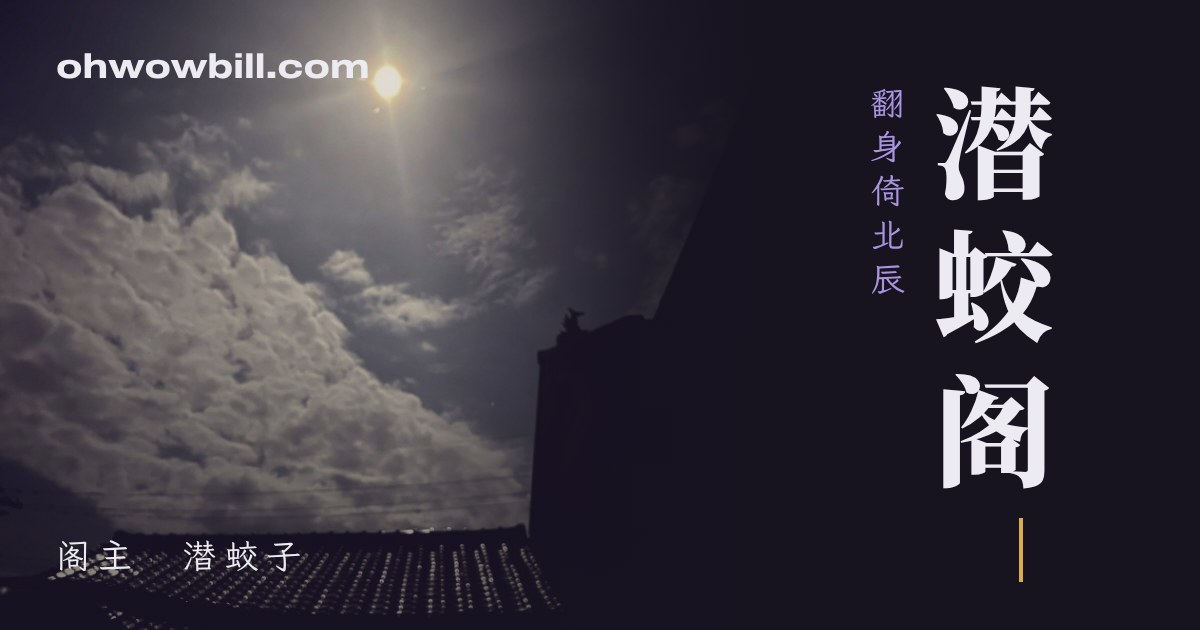
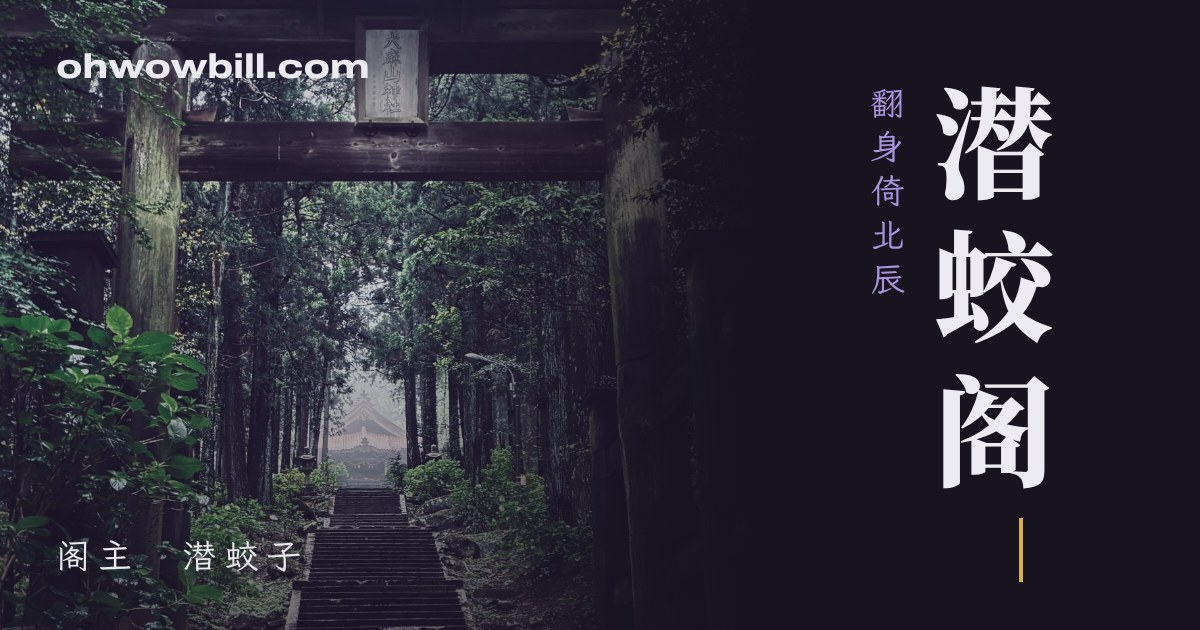
首页底图换回大麻山神社鸟居原图
按阁内调法处理（降饱和、压暗、暗部偏紫、亮部偏金），构建时转 WebP；
分享卡片同步更换。

Claude-Session: https://claude.ai/code/session_01TX6MzmbUzvExFYtFKriNof

diff --git a/layouts/index.html b/layouts/index.html
@@ -6,11 +6,11 @@
      走主题的 baseof（导航、搜索、页脚与内页一致），不再有加载帘幕。
      =========================================================== */ -}}
 {{- $posts := where site.RegularPages "Section" "posts" -}}
-{{- $hero := resources.Get "img/ge-hero.jpg" -}}
+{{- $hero := (resources.Get "img/ge-hero.jpg").Process "webp q70" -}}
 
 <section class="qj-hero" aria-label="潜蛟阁">
   {{- with $hero }}
-  <img class="qj-hero-img nozoom" src="{{ .RelPermalink }}" width="{{ .Width }}" height="{{ .Height }}" alt="月下屋檐，云层压着瓦" fetchpriority="high"/>
+  <img class="qj-hero-img nozoom" src="{{ .RelPermalink }}" width="{{ .Width }}" height="{{ .Height }}" alt="大麻山神社，鸟居下石阶通往雾中社殿" fetchpriority="high"/>
   {{- end }}
   <span class="qj-hero-v2">翻身倚北辰</span>
   <h1 class="qj-hero-v">潜蛟阁</h1>

diff --git a/assets/css/custom.css b/assets/css/custom.css
@@ -199,7 +199,7 @@ h1, h2, h3, h4,
 
 @media (min-width: 640px) {
   .qj-hero { aspect-ratio: 16 / 10; }
-  .qj-hero .qj-hero-img { object-position: 50% 9%; }
+  .qj-hero .qj-hero-img { object-position: 50% 27%; }
 }
 
 .qj-hero-img {
@@ -208,7 +208,7 @@ h1, h2, h3, h4,
   width: 100%;
   height: 100%;
   object-fit: cover;
-  object-position: 50% 22%;
+  object-position: 50% 40%;
   margin: 0 !important;
 }
 
